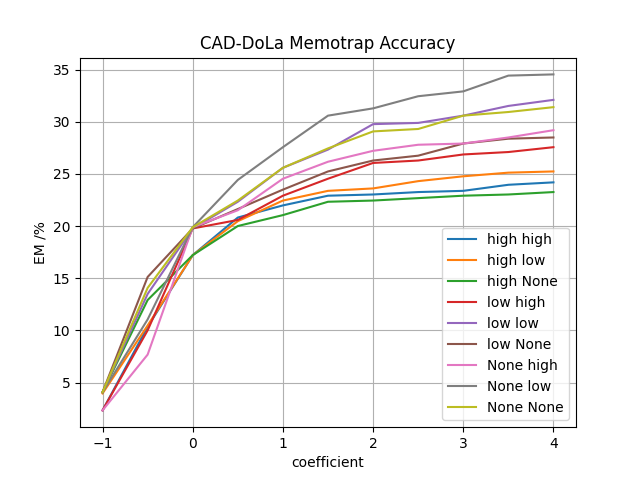
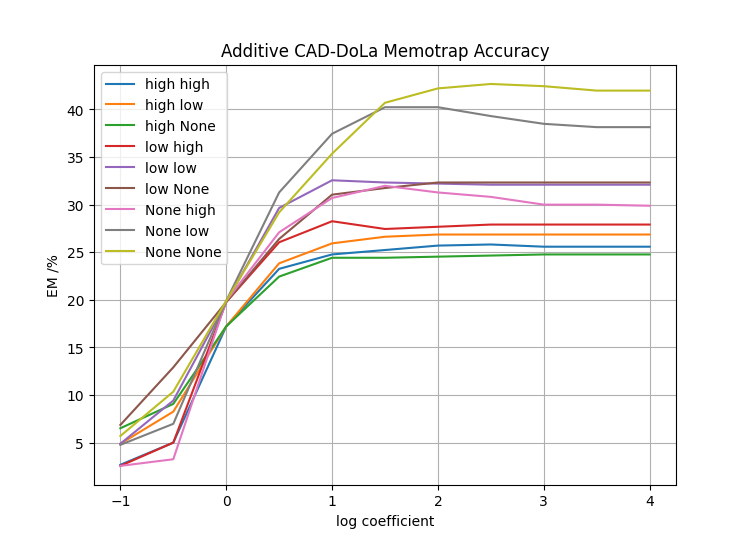
new novel results

diff --git a/graph_cad_beta.py b/graph_cad_beta.py
@@ -3,7 +3,7 @@ import matplotlib.pyplot as plt
 from typing import Dict, List
 import os
 
-data_folder: str = 'results_novel'
+data_folder: str = 'results_novel_2'
 json_files: List[str] = os.listdir(data_folder)
 
 for json_file in json_files:
@@ -23,9 +23,9 @@ for json_file in json_files:
     layers: str = file_name.split("_")[-2] + " " + file_name.split("_")[-1]
     plt.plot(x, y, label=layers)
 
-plt.xlabel("coefficient")
+plt.xlabel("log coefficient")
 plt.ylabel("EM /%")
 plt.legend()
-plt.title("CAD-DoLa Memotrap Accuracy")
+plt.title("Additive CAD-DoLa Memotrap Accuracy")
 plt.grid()
 plt.show()
